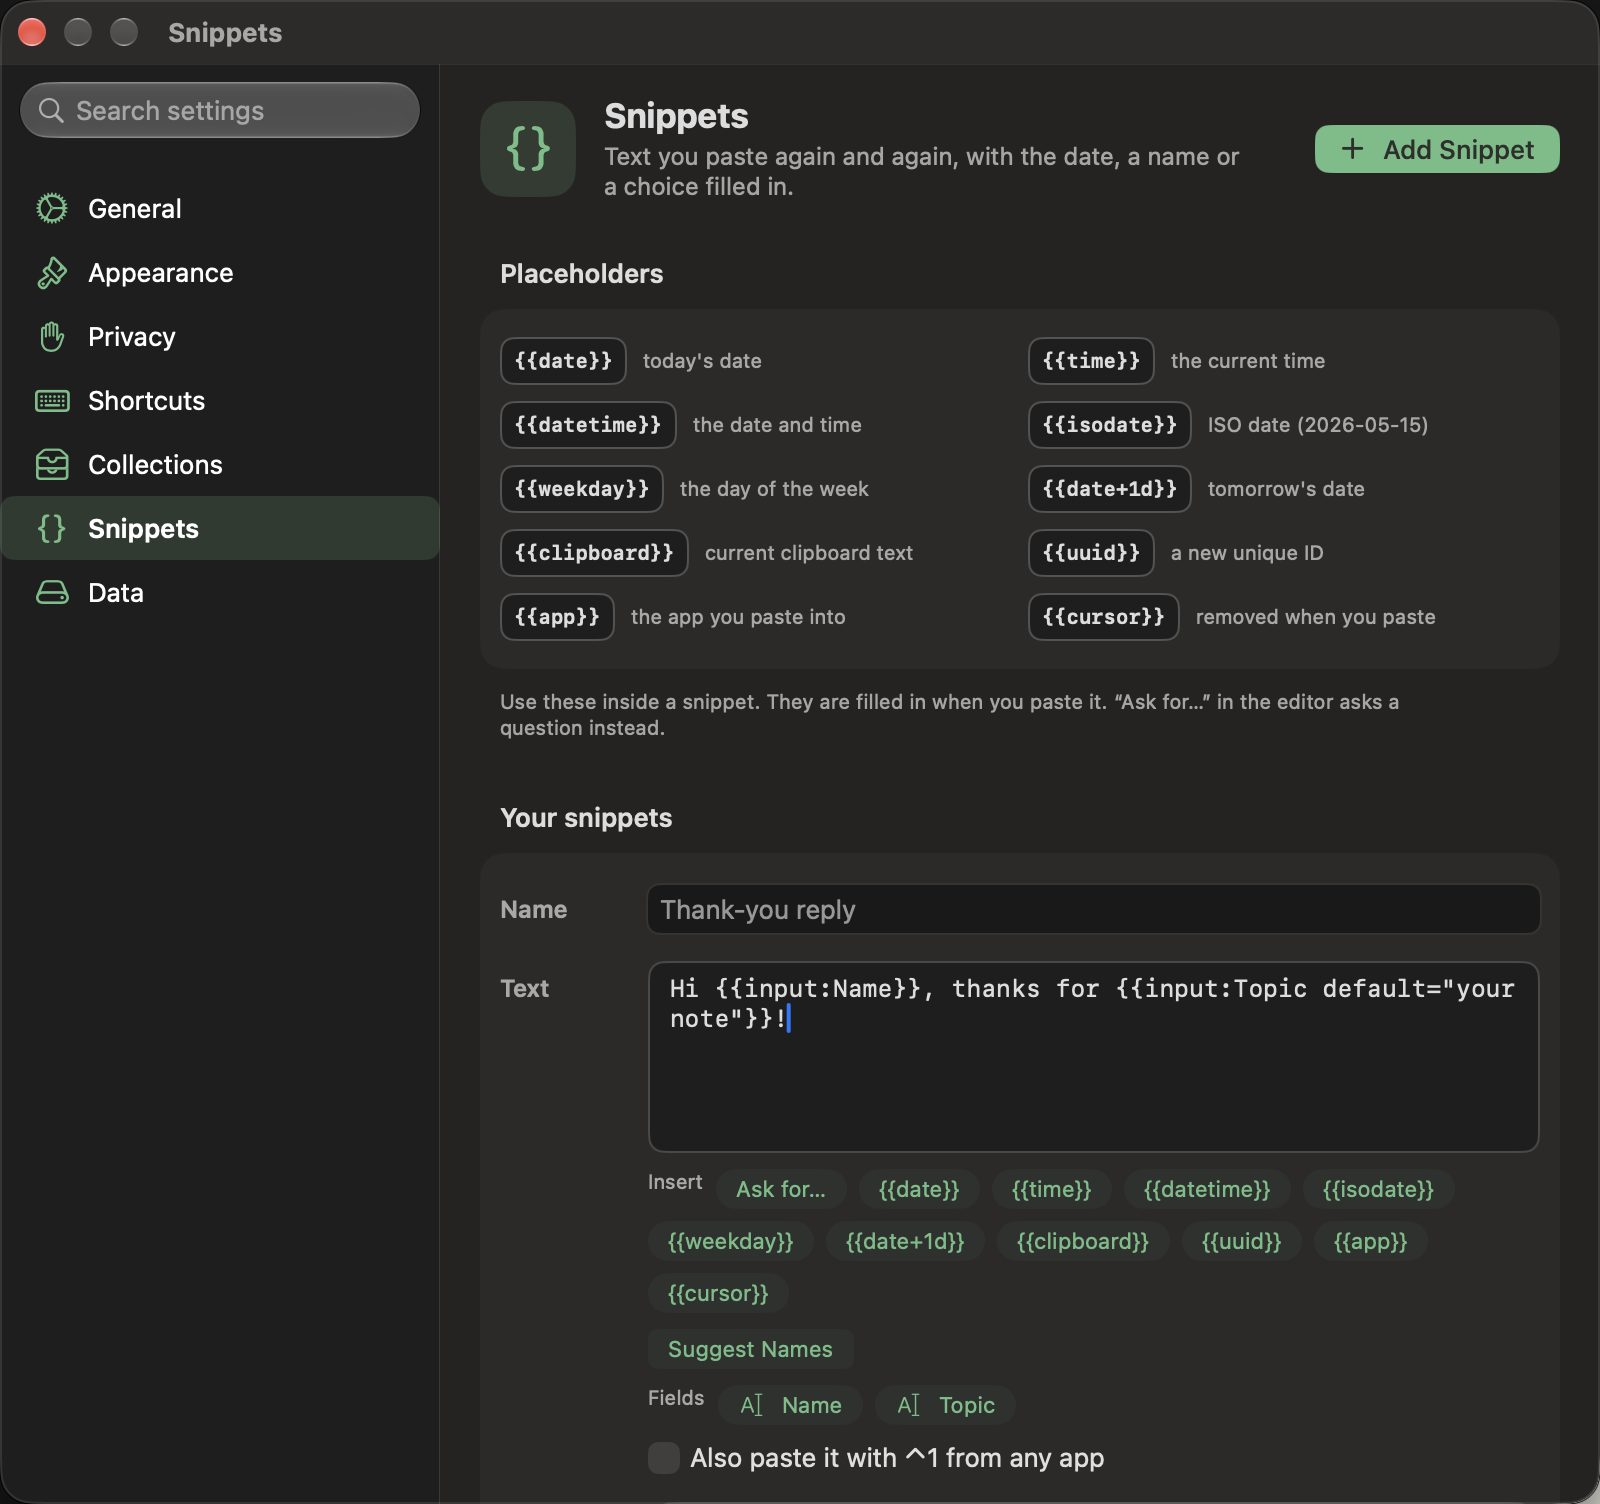
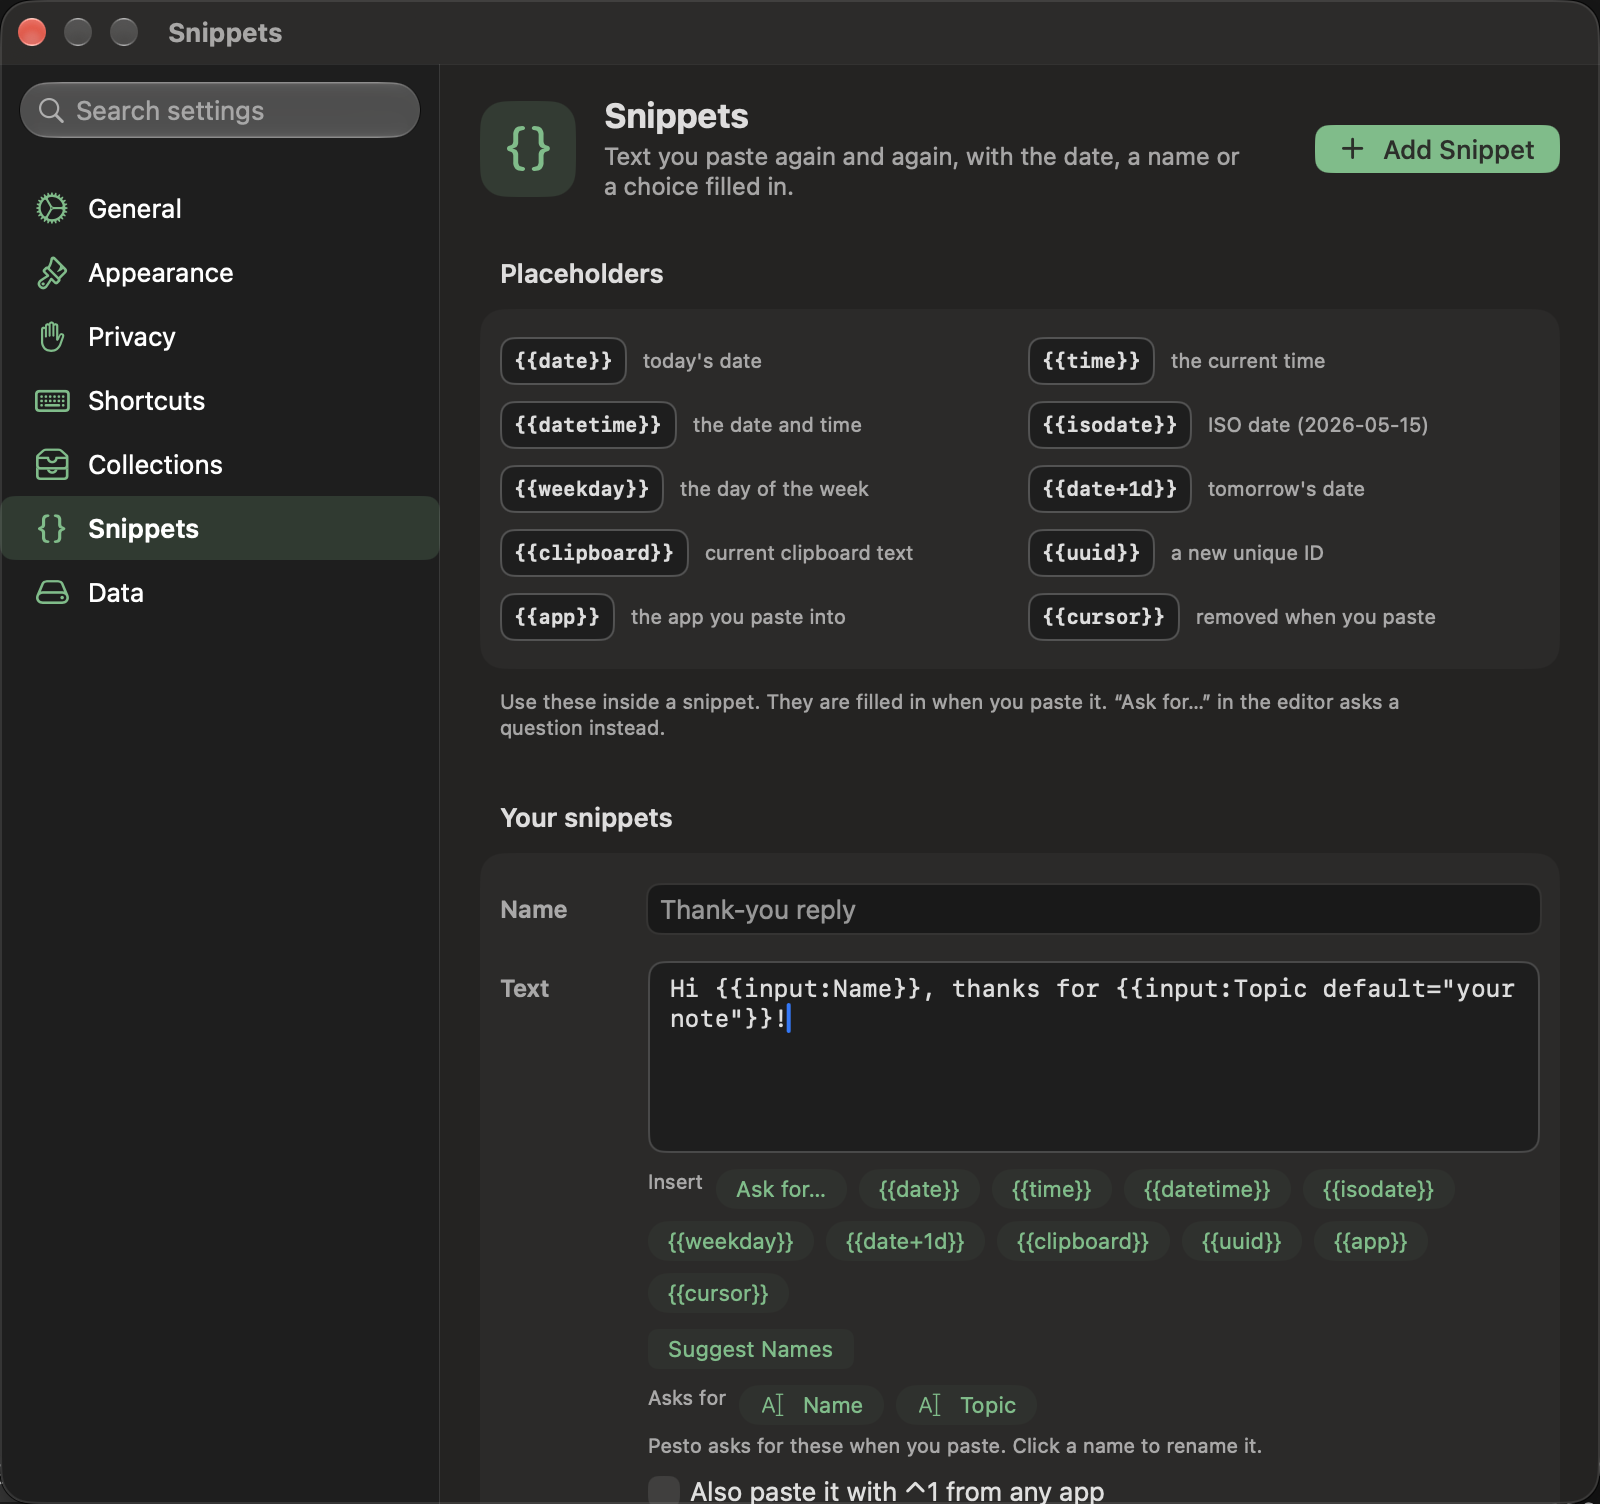
feat(snippets): clearer Asks for chips, shortcuts on Paste All and Paste One by One, retaken picture; fix a hand-made plural pattern

Changed region(s): [[0.4062, 0.9062, 0.7812, 1.0], [0.9688, 0.9688, 1.0, 1.0]]

diff --git a/Sources/Features/Grid/SelectionActionBar.swift b/Sources/Features/Grid/SelectionActionBar.swift
@@ -111,6 +111,7 @@ struct SelectionActionBar: View {
         let icon: String
         let role: PestoCapsuleButtonStyle.Role
         let help: LocalizedStringKey
+        var shortcut: String?
     }
 
     private func actions(iconOnly: Bool) -> some View {
@@ -119,7 +120,8 @@ struct SelectionActionBar: View {
                 actionButton(
                     BarAction(
                         title: "Paste All", icon: "text.append", role: .primary,
-                        help: "Join the selected clips with a blank line and paste them at once"
+                        help: "Join the selected clips with a blank line and paste them at once (\u{2318}P)",
+                        shortcut: "\u{2318}P"
                     ),
                     iconOnly: iconOnly, action: onPasteAll
                 )
@@ -130,7 +132,8 @@ struct SelectionActionBar: View {
                 BarAction(
                     title: "Paste One by One", icon: "square.stack.3d.up.fill",
                     role: canPasteAll ? .secondary : .primary,
-                    help: "Paste one selected clip each time you press ⌘V"
+                    help: "Paste one selected clip each time you press ⌘V (\u{21E7}\u{2318}P)",
+                    shortcut: "\u{21E7}\u{2318}P"
                 ),
                 iconOnly: iconOnly, action: onPasteOneByOne
             )
@@ -146,9 +149,17 @@ struct SelectionActionBar: View {
 
     private func actionButton(_ spec: BarAction, iconOnly: Bool, action: @escaping () -> Void) -> some View {
         Button(action: action) {
-            Label(spec.title, systemImage: spec.icon)
-                .scaledFont(size: 12, weight: .semibold, maxScale: 1.3)
-                .modifier(IconOnlyIf(iconOnly))
+            HStack(spacing: 6) {
+                Label(spec.title, systemImage: spec.icon)
+                    .scaledFont(size: 12, weight: .semibold, maxScale: 1.3)
+                    .modifier(IconOnlyIf(iconOnly))
+                if let shortcut = spec.shortcut, !iconOnly {
+                    Text(shortcut)
+                        .scaledFont(size: 10.5, weight: .medium, maxScale: 1.3)
+                        .opacity(0.7)
+                        .accessibilityHidden(true)
+                }
+            }
         }
         .buttonStyle(.pestoCapsule(spec.role))
         .help(spec.help)

diff --git a/Sources/Features/Settings/SnippetFieldChips.swift b/Sources/Features/Settings/SnippetFieldChips.swift
@@ -10,14 +10,17 @@ struct SnippetFieldChips: View {
     var body: some View {
         let fields = FillInParser.fields(in: text)
         if !fields.isEmpty {
-            PlaceholderFlowLayout(spacing: 6) {
-                Text("Fields").pestoCaption()
-                ForEach(fields) { field in
-                    FieldChip(field: field, text: $text)
+            VStack(alignment: .leading, spacing: 4) {
+                PlaceholderFlowLayout(spacing: 6) {
+                    Text("Asks for").pestoCaption()
+                    ForEach(fields) { field in
+                        FieldChip(field: field, text: $text)
+                    }
                 }
+                Text("Pesto asks for these when you paste. Click a name to rename it.").pestoCaption()
             }
             .accessibilityElement(children: .contain)
-            .accessibilityLabel("Fields this snippet asks for")
+            .accessibilityLabel("What this snippet asks for when you paste")
         }
     }
 }

diff --git a/Sources/Features/Settings/SnippetEditorView.swift b/Sources/Features/Settings/SnippetEditorView.swift
@@ -58,8 +58,10 @@ struct SnippetEditorView: View {
                 if inOptional { run.foregroundColor = .secondary }
                 result += run
             case let .field(label, hint, kind):
-                let detail = kind == .input ? hint.map { ": \($0)" } ?? "" : ""
-                let name = "\u{2009}\(label)\(detail)\(kind == .choice ? " \u{25BE}" : "")\u{2009}"
+                var name = "\u{2009}\(label)"
+                if kind == .input, let hint { name += ": \(hint)" }
+                if kind == .choice { name += " \u{25BE}" }
+                name += "\u{2009}"
                 var chip = AttributedString(name)
                 let tint = kind == .context ? Color.secondary : accent
                 chip.foregroundColor = tint

diff --git a/docs/guide/using-pesto.md b/docs/guide/using-pesto.md
@@ -113,7 +113,7 @@ caret lands afterwards).
 ![The prompt a snippet shows when it asks for a name, a choice, a note and an optional paragraph.](../images/fill-in-prompt.png)
 
 A label used twice asks once. Return pastes, **⌘Return** pastes from a box of several lines, Esc cancels, and Tab moves between rows.
-The *Ask for…* menu in the snippet editor writes these tokens for you, the fields show as chips under the text (click one to rename it), and a new snippet can claim the next free `⌃1`–`⌃9` shortcut with one checkbox. A snippet pasted one by one with a stack asks everything
+The *Ask for…* menu in the snippet editor writes these tokens for you, the questions show as chips under *Asks for* (click one to rename it), and a new snippet can claim the next free `⌃1`–`⌃9` shortcut with one checkbox. A snippet pasted one by one with a stack asks everything
 before the first clip. If a token is misspelled or has no label it pastes as typed.
 
 Pesto starts a field with what you typed last time. That is kept with the snippet, encrypted like its text, and turned off
